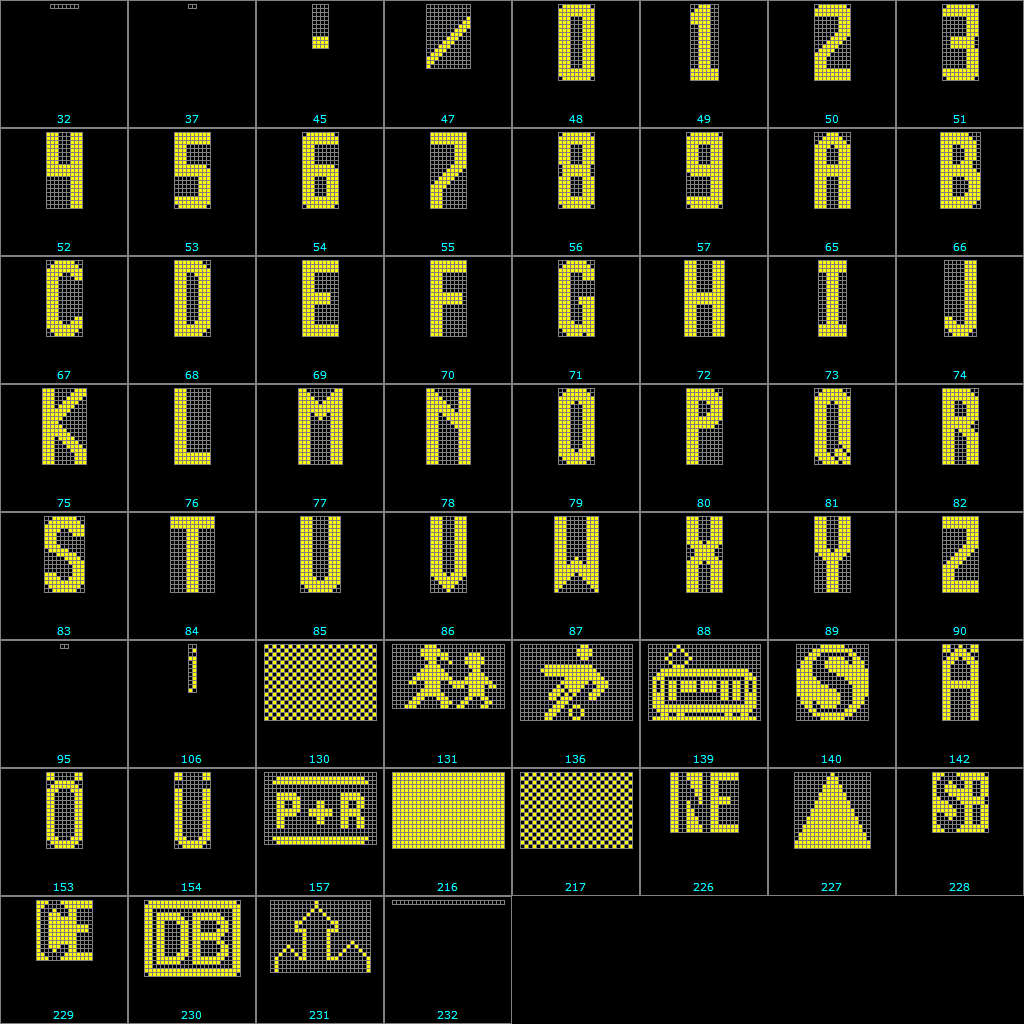
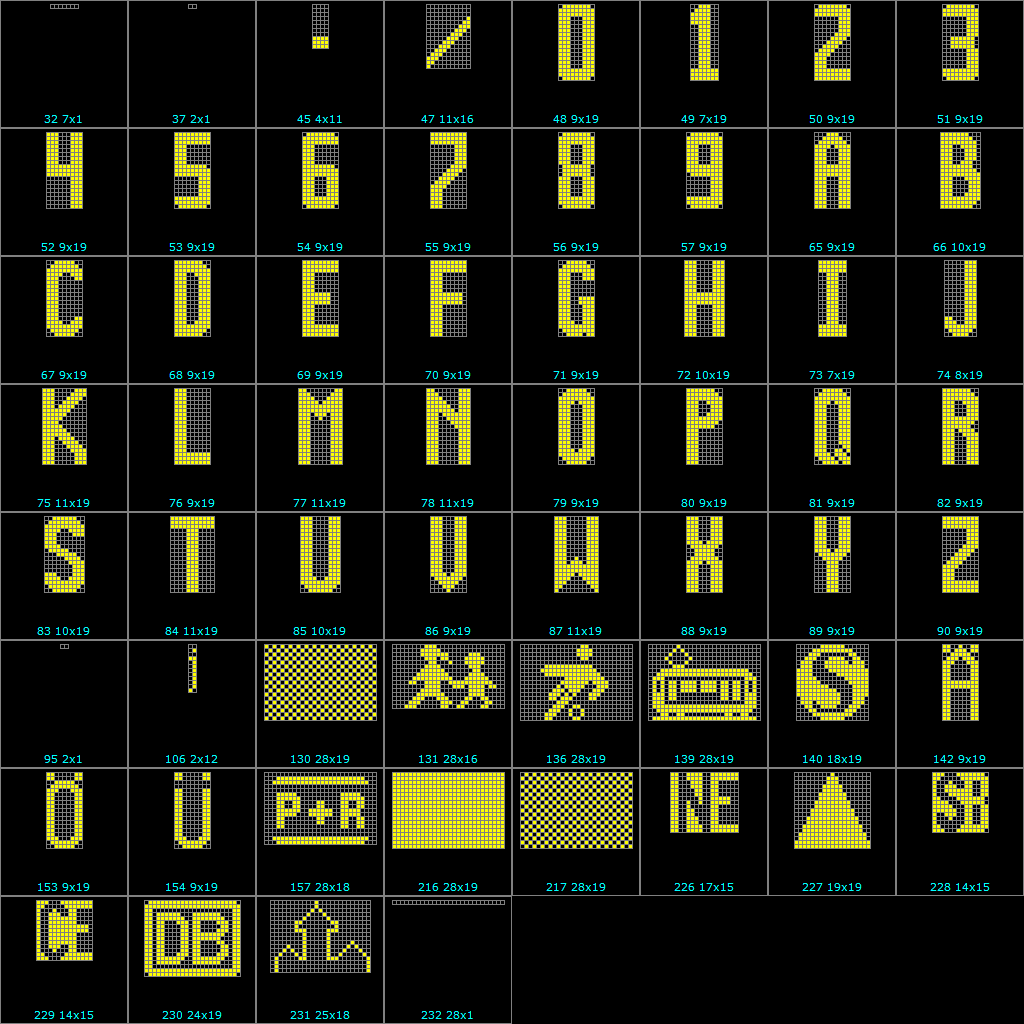
Refactoring: show character size in preview

diff --git a/BitViewer/src/FontExporter/Program.cs b/BitViewer/src/FontExporter/Program.cs
@@ -1,7 +1,5 @@
 using System;
-using System.IO;
 using System.Linq;
-using System.Net.Mime;
 
 namespace FontExporter
 {
@@ -18,12 +16,28 @@ namespace FontExporter
             var parser = new FontsParser();
             var exporter = new AdafruitFontExporter();
 
-            if (!System.IO.Directory.Exists(args[1]))
+            if (args.Length < 3)
             {
-                System.IO.Directory.CreateDirectory(args[1]);
+                Console.Error.WriteLine("FontExporter.exe VERB ROMfile outputDir [parameters]");
+                return -1;
             }
-            
-            var bytes = System.IO.File.ReadAllBytes(args[0]);
+
+            var verb = args[0].ToLower();
+
+            if (verb != "preview" && verb != "export")
+            {
+                Console.Error.WriteLine("Supported verbs: PREVIEW | EXPORT");
+                return -1;
+            }
+
+            var romFile = args[1];
+            var outputDir = args[2];
+            if (!System.IO.Directory.Exists(outputDir))
+            {
+                System.IO.Directory.CreateDirectory(outputDir);
+            }
+
+            var bytes = System.IO.File.ReadAllBytes(romFile);
             parser.Parse(bytes);
 
             foreach (var font in parser.Fonts.Values)
@@ -32,9 +46,9 @@ namespace FontExporter
                 var minCode = font.Characters.Values.Min(x => x.Code);
                 var maxCode = font.Characters.Values.Max(x => x.Code);
                 Character refChar;
-                if (font.Characters.ContainsKey(65))
+                if (font.Characters.ContainsKey(48))
                 {
-                    refChar = font.Characters[65];
+                    refChar = font.Characters[48];
                 }
                 else
                 {
@@ -42,12 +56,11 @@ namespace FontExporter
                 }
                 Console.Write($"{font.FontCode} - {font.Characters.Count}  [{minCode}-{maxCode}]");
 
-                if (font.Characters.Count > 20)
+                if (verb == "preview" && font.Characters.Count > 10)
                 {
-                    var targetDir = args[1];
                     var fontName = $"bus_{font.FontCode}_{refChar.Width}x{maxHeight}";
-                    var fileBase = System.IO.Path.Combine(targetDir, fontName);
-                    exporter.Export( fileBase+ ".h", fileBase + ".png", fontName, font, refChar);
+                    var fileBase = System.IO.Path.Combine(outputDir, fontName);
+                    exporter.Preview( fileBase + ".png", font, refChar);
                     Console.WriteLine($" -> {fontName}");
                 }
                 else

diff --git a/BitViewer/src/FontExporter/AdafruitFontExporter.cs b/BitViewer/src/FontExporter/AdafruitFontExporter.cs
@@ -12,7 +12,7 @@ namespace FontExporter
         private const int PREVIEW_Y = 128;
         private const int PIXEL_SIZE = 4;
 
-        public void Export(string headerFileName, string previewFileName, string fontName, Font font, Character refChar)
+        public void Preview(string previewFileName, Font font, Character refChar)
         {
             var cols = 8;
             var rows = (font.Characters.Count - 1) / 8 + 1;
@@ -36,7 +36,8 @@ namespace FontExporter
                         var frame = new Rectangle(col * PREVIEW_X, row * PREVIEW_Y, PREVIEW_X-1, PREVIEW_Y-1);
                         gr.DrawRectangle(Pens.Gray, frame);
                         var rect = new Rectangle(col * PREVIEW_X, (row  + 1)* PREVIEW_Y - 18 , PREVIEW_X-1, 18);
-                        gr.DrawString(ch.Code.ToString(), ft, Brushes.Cyan, rect, stringFormat);
+                        var charDesc = $"{ch.Code} {ch.Width}x{ch.Height}";
+                        gr.DrawString(charDesc, ft, Brushes.Cyan, rect, stringFormat);
 
                         var x0 = PREVIEW_X / 2 - ch.Width * PIXEL_SIZE  / 2 + col * PREVIEW_X;
                         var y0 = row * PREVIEW_Y + 4;
